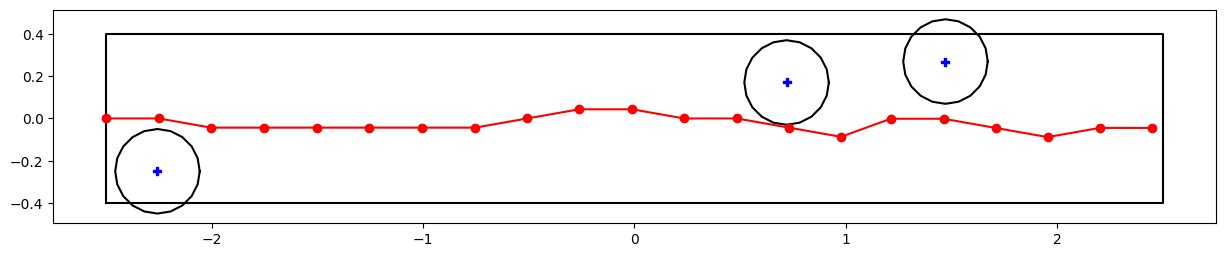
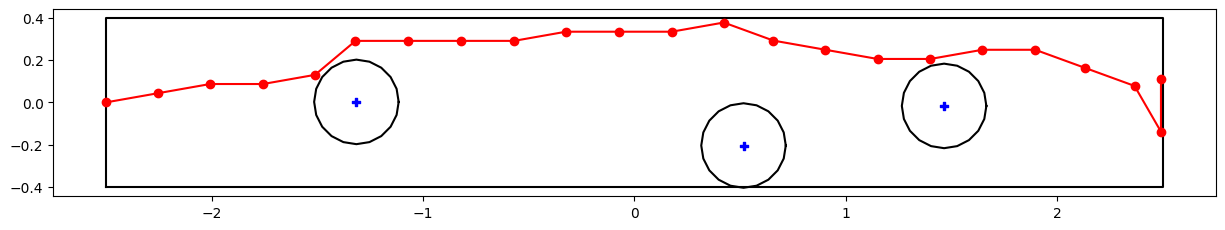
generation bug fixes

diff --git a/infer_batch.py b/infer_batch.py
@@ -131,16 +131,8 @@ def generate(model, config, headx, posx, trafx, abs_traff):
 
 
 eps   = 1e-8
-exit  = np.asarray((2.5 - eps, 0))
+exit  = np.asarray((2 - eps, 0.4-eps))
 entry = np.asarray((-2.5 + eps, 0))
-
-
-
-
-
-
-
-
 
 
 # Match the safety radius used to generate the training data in data/gen2.py.

diff --git a/data/plot_gen_sample.py b/data/plot_gen_sample.py
@@ -10,7 +10,7 @@ from joblib import Parallel, delayed
 import torch
 import matplotlib.pyplot as plt
 
-OUTPUT_DIR = "/home/je540/multi"
+OUTPUT_DIR = "/home/james/multi"
 
 import sys
 import os